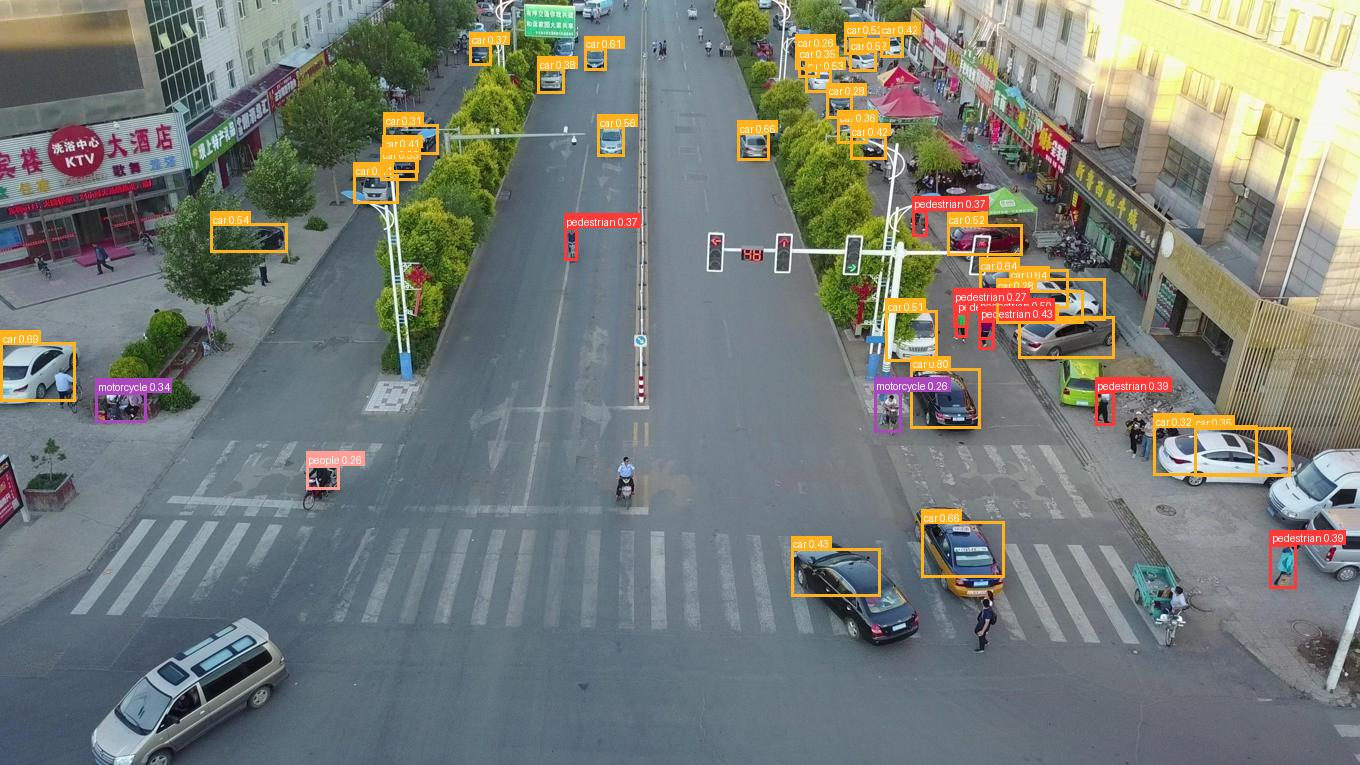
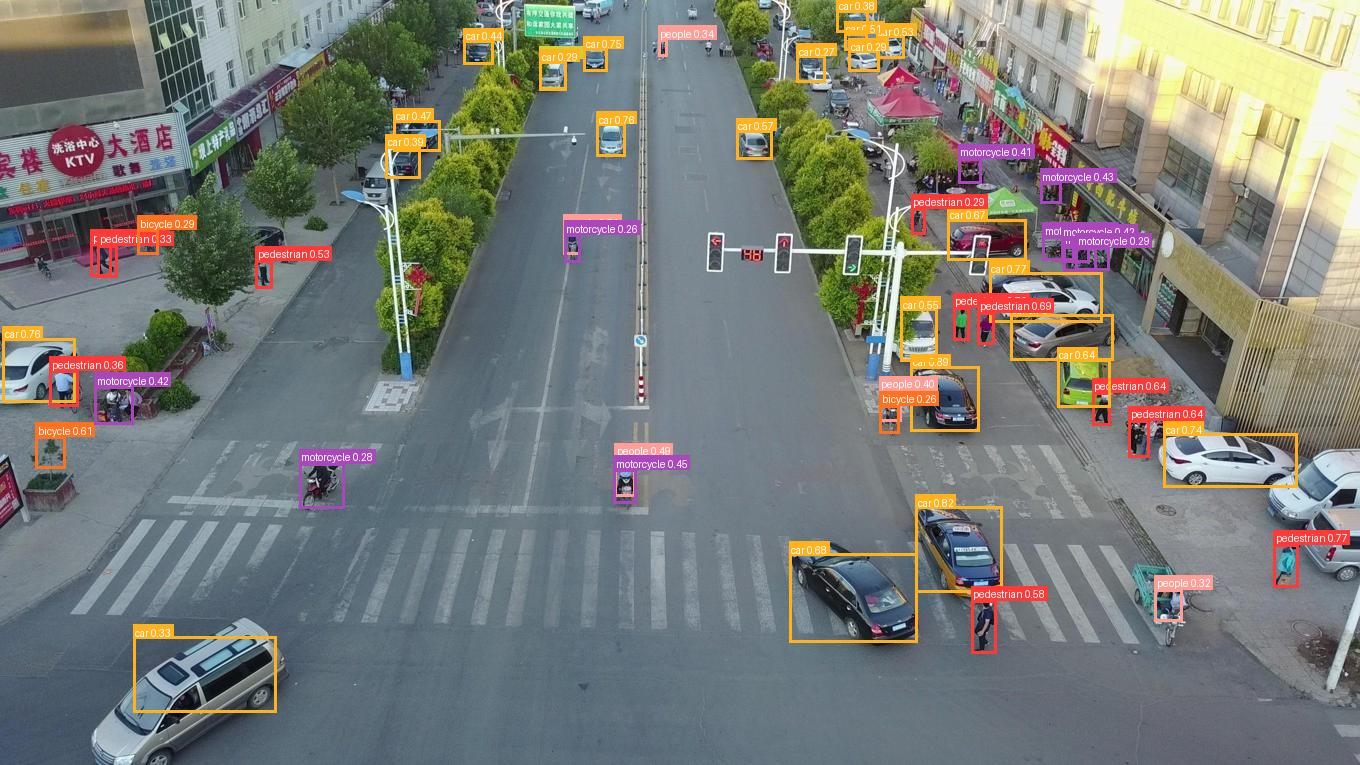
add dropout

diff --git a/VisDrone_yolov11/dataset.py b/VisDrone_yolov11/dataset.py
@@ -7,6 +7,7 @@ from typing import Any, Callable, Dict, List, Optional, Tuple, Union
 import numpy as np
 from PIL import Image
 import torch
+import torch.nn.functional as F
 
 from BaseModel.core import DATASETS
 from BaseModel.dataset import BaseDataset, open_lmdb
@@ -57,6 +58,7 @@ class VisDroneLMDBDataset(BaseDataset):
         include_boxes: bool = True,
         cache_images: Optional[str] = None,   # None | "ram" (shared uint8 tensor) | "jpeg" (compressed bytes)
         cache_size: Optional[Tuple[int, int]] = None,
+        augment: bool = False,                # Fast tensor augmentation (HFlip + ColorJitter + Scale/Crop)
         **kwargs,
     ):
         self.split = split.lower()
@@ -67,6 +69,7 @@ class VisDroneLMDBDataset(BaseDataset):
         self.include_boxes = include_boxes
         self.cache_images = cache_images.lower() if isinstance(cache_images, str) else None
         self.cache_size = tuple(cache_size) if cache_size is not None else self._infer_resize_from_pipeline(pipeline)
+        self.augment = bool(augment) and (self.split == "train") and (not test_mode)
         self.env = None
         self.txn = None
         self.bg_env = None
@@ -391,8 +394,91 @@ class VisDroneLMDBDataset(BaseDataset):
             return {"image": image, "target": target}
         return self._read_lmdb_sample(idx)
 
+    def _apply_tensor_augment(
+        self, img: torch.Tensor, target: Dict[str, Any]
+    ) -> Tuple[torch.Tensor, Dict[str, Any]]:
+        """Fast GPU/CPU-friendly tensor augmentation compatible with `cache_images='ram'`.
+
+        Applies:
+          1. RandomHorizontalFlip (p=0.5)
+          2. RandomScale + RandomCrop/Pad (p=0.5, scale in [0.8, 1.2])
+          3. Random ColorJitter: brightness, contrast, saturation (p=0.8)
+        """
+        _, h, w = img.shape
+        boxes = target.get("boxes", torch.empty((0, 4), dtype=torch.float32)).clone()
+        labels = target.get("labels", torch.empty((0,), dtype=torch.int64)).clone()
+
+        # 1. Random Horizontal Flip (p=0.5)
+        if random.random() < 0.5:
+            img = torch.flip(img, dims=[2])
+            if len(boxes) > 0:
+                boxes[:, 0] = (1.0 - boxes[:, 0]).clamp(0.0, 1.0)
+
+        # 2. Random Scale + Crop/Pad (p=0.5)
+        if random.random() < 0.5:
+            scale = random.uniform(0.8, 1.2)
+            nh, nw = max(32, int(round(h * scale))), max(32, int(round(w * scale)))
+            img_s = F.interpolate(img.unsqueeze(0), size=(nh, nw), mode="bilinear", align_corners=False).squeeze(0)
+
+            if scale >= 1.0:
+                # Random crop (h, w) from larger (nh, nw)
+                y0 = random.randint(0, nh - h)
+                x0 = random.randint(0, nw - w)
+                img = img_s[:, y0 : y0 + h, x0 : x0 + w]
+                if len(boxes) > 0:
+                    cx = (boxes[:, 0] * nw - x0) / w
+                    cy = (boxes[:, 1] * nh - y0) / h
+                    bw = boxes[:, 2] * (nw / w)
+                    bh = boxes[:, 3] * (nh / h)
+                    x1 = (cx - bw / 2.0).clamp(0.0, 1.0)
+                    y1 = (cy - bh / 2.0).clamp(0.0, 1.0)
+                    x2 = (cx + bw / 2.0).clamp(0.0, 1.0)
+                    y2 = (cy + bh / 2.0).clamp(0.0, 1.0)
+                    nbw, nbh = x2 - x1, y2 - y1
+                    keep = (nbw > (2.0 / w)) & (nbh > (2.0 / h))
+                    boxes = torch.stack([(x1 + x2) / 2.0, (y1 + y2) / 2.0, nbw, nbh], dim=-1)[keep]
+                    labels = labels[keep]
+            else:
+                # Random pad (nh, nw) into canvas (h, w) with neutral gray (0.447)
+                canvas = torch.full((3, h, w), 0.447, dtype=img.dtype)
+                y0 = random.randint(0, h - nh)
+                x0 = random.randint(0, w - nw)
+                canvas[:, y0 : y0 + nh, x0 : x0 + nw] = img_s
+                img = canvas
+                if len(boxes) > 0:
+                    cx = (boxes[:, 0] * nw + x0) / w
+                    cy = (boxes[:, 1] * nh + y0) / h
+                    bw = boxes[:, 2] * (nw / w)
+                    bh = boxes[:, 3] * (nh / h)
+                    boxes = torch.stack([cx, cy, bw, bh], dim=-1)
+
+        # 3. Random Photometric Jitter (p=0.8)
+        if random.random() < 0.8:
+            b_fac = random.uniform(0.8, 1.2)
+            c_fac = random.uniform(0.8, 1.2)
+            s_fac = random.uniform(0.8, 1.2)
+            img = img * b_fac
+            mean = img.mean(dim=(1, 2), keepdim=True)
+            img = (img - mean) * c_fac + mean
+            gray = 0.299 * img[0:1] + 0.587 * img[1:2] + 0.114 * img[2:3]
+            img = (gray + (img - gray) * s_fac).clamp_(0.0, 1.0)
+
+        counts = torch.zeros(self.num_classes, dtype=torch.float32)
+        if len(labels) > 0:
+            valid = labels[(labels >= 0) & (labels < self.num_classes)]
+            if len(valid) > 0:
+                counts = torch.bincount(valid, minlength=self.num_classes).float()
+
+        new_target: Dict[str, Any] = {
+            "_is_cxcywh": True,
+            "counts": counts,
+            "boxes": boxes,
+            "labels": labels,
+        }
+        return img, new_target
+
     def prepare_data(self, idx: int) -> Optional[Dict[str, Any]]:
-        """Fast path when resized uint8 images are cached in shared RAM."""
+        """Fast path when resized uint8 images are cached in shared RAM, with optional tensor augmentation."""
         if self._ram_images is not None and self._ram_targets is not None:
             img = self._ram_images[idx].to(dtype=torch.float32).div_(255.0)
             t_np = self._ram_targets[idx]
@@ -403,10 +489,18 @@ class VisDroneLMDBDataset(BaseDataset):
                 target["boxes"] = torch.from_numpy(t_np["boxes"])
             if "labels" in t_np:
                 target["labels"] = torch.from_numpy(t_np["labels"])
-            if "bg_mask" in t_np:
+            if "bg_mask" in t_np and not self.augment:
                 target["bg_mask"] = torch.from_numpy(t_np["bg_mask"])
+            if self.augment:
+                img, target = self._apply_tensor_augment(img, target)
             return {"image": img, "target": target}
-        return super().prepare_data(idx)
+
+        data = super().prepare_data(idx)
+        if data is not None and self.augment and isinstance(data.get("image"), torch.Tensor):
+            img, target = self._apply_tensor_augment(data["image"], data["target"])
+            data["image"] = img
+            data["target"] = target
+        return data
 
     def __getstate__(self):
         """Enable safe pickle serialization across multiprocessing DataLoader workers."""

diff --git a/VisDrone_yolov11/slot_module.py b/VisDrone_yolov11/slot_module.py
@@ -54,7 +54,7 @@ class LightweightSlotAttention(nn.Module):
     while keeping full slot-level FFN and class-supervised attention dynamics.
     """
 
-    def __init__(self, dim: int = 32, num_classes: int = 10, eps: float = 1e-8):
+    def __init__(self, dim: int = 32, num_classes: int = 10, eps: float = 1e-8, slot_dropout: float = 0.1):
         super().__init__()
         self.dim = dim
         self.num_classes = num_classes
@@ -72,6 +72,7 @@ class LightweightSlotAttention(nn.Module):
         self.to_v = nn.Linear(dim, dim)
 
         self.fc1 = nn.Linear(dim, dim * 2)
+        self.dropout = nn.Dropout(slot_dropout)
         self.fc2 = nn.Linear(dim * 2, dim)
 
     def forward(
@@ -107,7 +108,7 @@ class LightweightSlotAttention(nn.Module):
         attn_norm = attn_eps / attn_eps.sum(dim=-1, keepdim=True).clamp(min=self.eps)
 
         slots = torch.einsum("bnd,bsn->bsd", v.float(), attn_norm).to(dtype=v.dtype)
-        slots = slots + self.fc2(F.silu(self.fc1(self.norm_pre_ff(slots))))
+        slots = slots + self.fc2(self.dropout(F.silu(self.fc1(self.norm_pre_ff(slots)))))
         return slots, attn_ori, dots
 
 
@@ -130,6 +131,7 @@ class PostNeckSlotFiLMRefiner(nn.Module):
         use_bg_slot_write: bool = False,
         use_logit_prior: bool = True,
         use_checkpoint: bool = False,
+        slot_dropout: float = 0.1,
     ):
         super().__init__()
         assert slot_dim % 2 == 0, f"slot_dim must be even for 2D Sine PosEmb, got {slot_dim}"
@@ -156,7 +158,12 @@ class PostNeckSlotFiLMRefiner(nn.Module):
         self.pos_emb = PositionEmbeddingSine(num_pos_feats=slot_dim // 2)
         self.level_embed = nn.Parameter(torch.randn(len(in_channels), slot_dim) * 0.02)
 
-        self.slot_attention = LightweightSlotAttention(dim=slot_dim, num_classes=num_classes)
+        self.slot_attention = LightweightSlotAttention(
+            dim=slot_dim,
+            num_classes=num_classes,
+            slot_dropout=slot_dropout,
+        )
+        self.slot_drop = nn.Dropout2d(slot_dropout)
 
         # Zero-initialized FiLM or Residual projections back to each scale's channel dim
         if fusion_mode == "film":
@@ -233,6 +240,7 @@ class PostNeckSlotFiLMRefiner(nn.Module):
             for i, (f, (h, w), n_i) in enumerate(zip(feats_f, resolutions, counts)):
                 slot_map_i = slot_broadcast[:, :, offset : offset + n_i].view(bs, self.slot_dim, h, w)
                 offset += n_i
+                slot_map_i = self.slot_drop(slot_map_i)
 
                 if self.fusion_mode == "film":
                     delta_gamma, delta_beta = self.modulators[i](slot_map_i).chunk(2, dim=1)
@@ -442,13 +450,18 @@ class SlotAuxiliaryLoss(nn.Module):
                 dice = 1.0 - (2.0 * inter + 1.0) / (card + 1.0)
                 loss_dice = dice[active].mean()
 
-                pos_pixels = (cls_mask > 0.5) & active.unsqueeze(-1)
-                if pos_pixels.any():
+                # Class-balanced Positive CE: average per active class first so rare classes
+                # (bicycle, tricycle, awning-tricycle) are not drowned out by car/pedestrian pixels
+                pos_m = (cls_mask > 0.5).float()  # (B, K, N)
+                pos_cnt = pos_m.sum(dim=-1)       # (B, K)
+                valid_pos_cls = active & (pos_cnt > 0)
+                if valid_pos_cls.any():
                     if dots_f is not None:
-                        log_p_cls = F.log_softmax(dots_f, dim=1)[:, : self.num_classes, :]
-                        loss_pos = -log_p_cls[pos_pixels].mean()
+                        neg_log_p = -F.log_softmax(dots_f, dim=1)[:, : self.num_classes, :]
                     else:
-                        loss_pos = -torch.log(p_cls[pos_pixels]).mean()
+                        neg_log_p = -torch.log(p_cls)
+                    per_cls_pos_ce = (neg_log_p * pos_m).sum(dim=-1) / pos_cnt.clamp(min=1.0)
+                    loss_pos = per_cls_pos_ce[valid_pos_cls].mean()
                 else:
                     loss_pos = torch.tensor(0.0, device=device)
 

diff --git a/VisDrone_yolov11/model.py b/VisDrone_yolov11/model.py
@@ -398,8 +398,9 @@ class VisDroneYOLO11Slot(VisDroneYOLO11):
         fusion_mode: str = "film",
         use_bg_slot_write: bool = False,
         use_logit_prior: bool = False,
-        assigner_prior_weight: float = 0.25,
+        assigner_prior_weight: float = 0.0,
         use_slot_checkpoint: bool = False,
+        slot_dropout: float = 0.1,
         slot_loss_weight: float = 0.3,
         bg_attn_weight: float = 0.5,
         fg_attn_weight: float = 0.5,
@@ -430,6 +431,7 @@ class VisDroneYOLO11Slot(VisDroneYOLO11):
             use_bg_slot_write=use_bg_slot_write,
             use_logit_prior=use_logit_prior,
             use_checkpoint=use_slot_checkpoint,
+            slot_dropout=slot_dropout,
         )
         self.slot_criterion = SlotAuxiliaryLoss(
             num_classes=num_classes,
